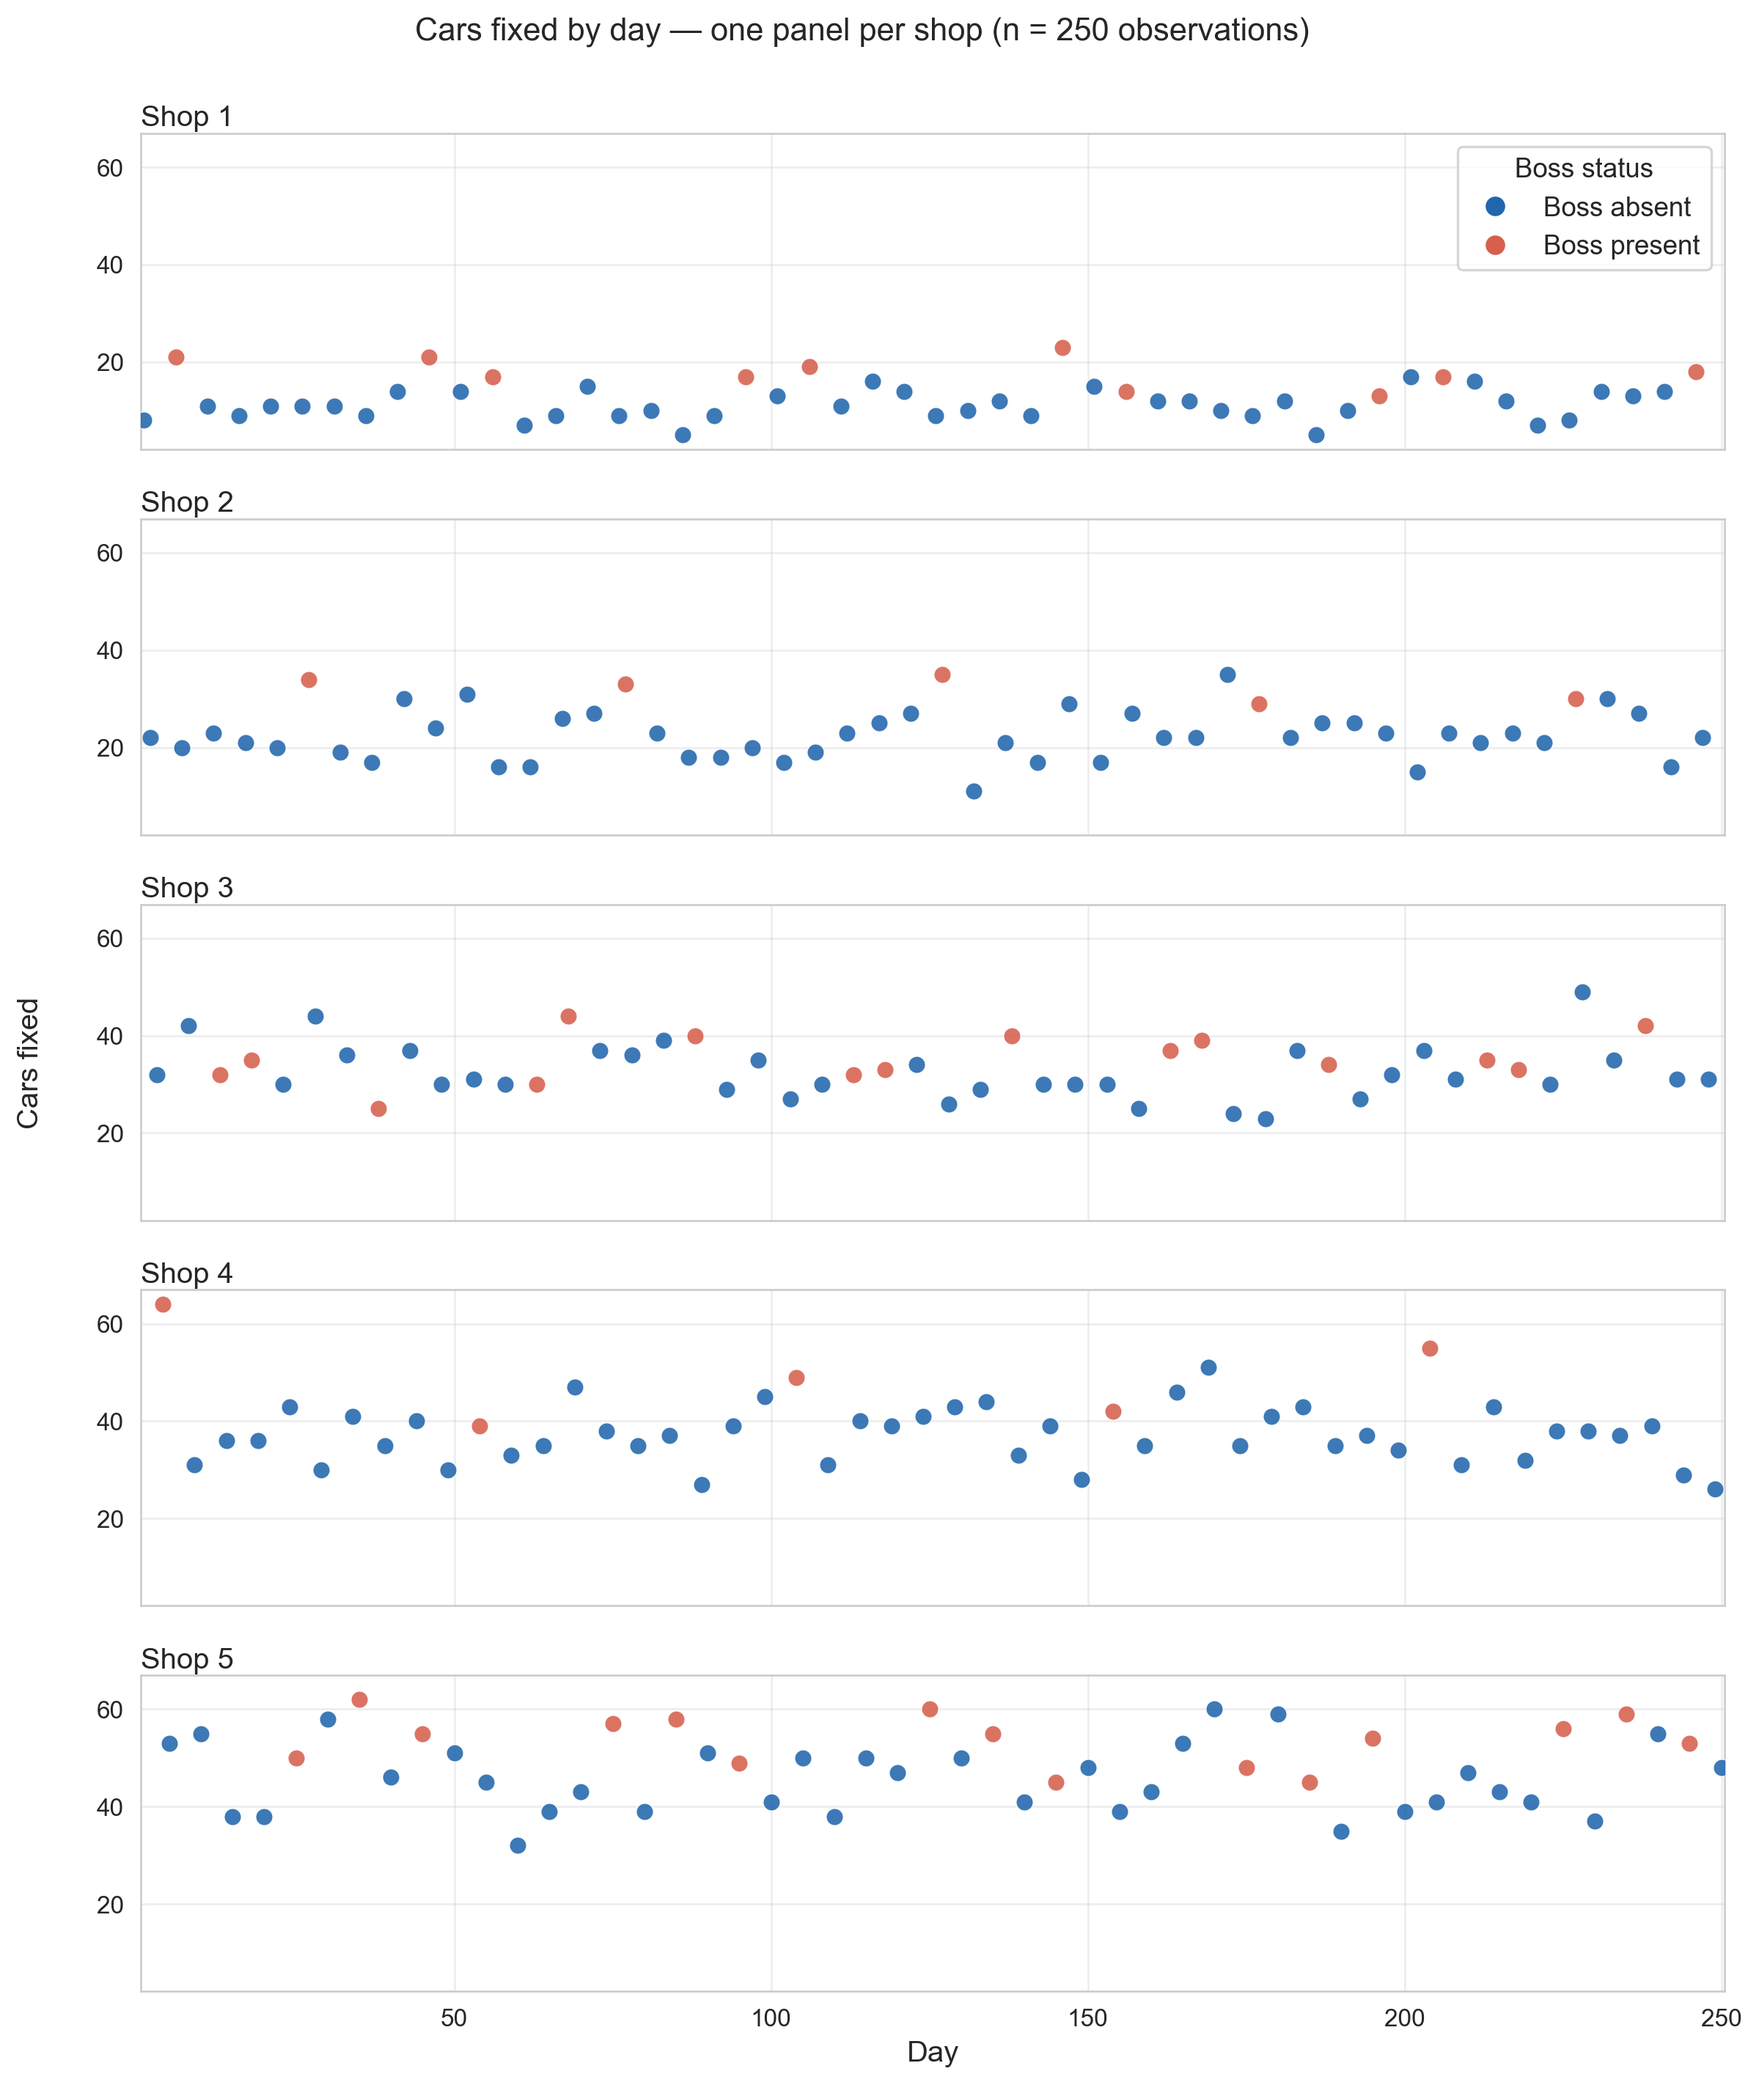
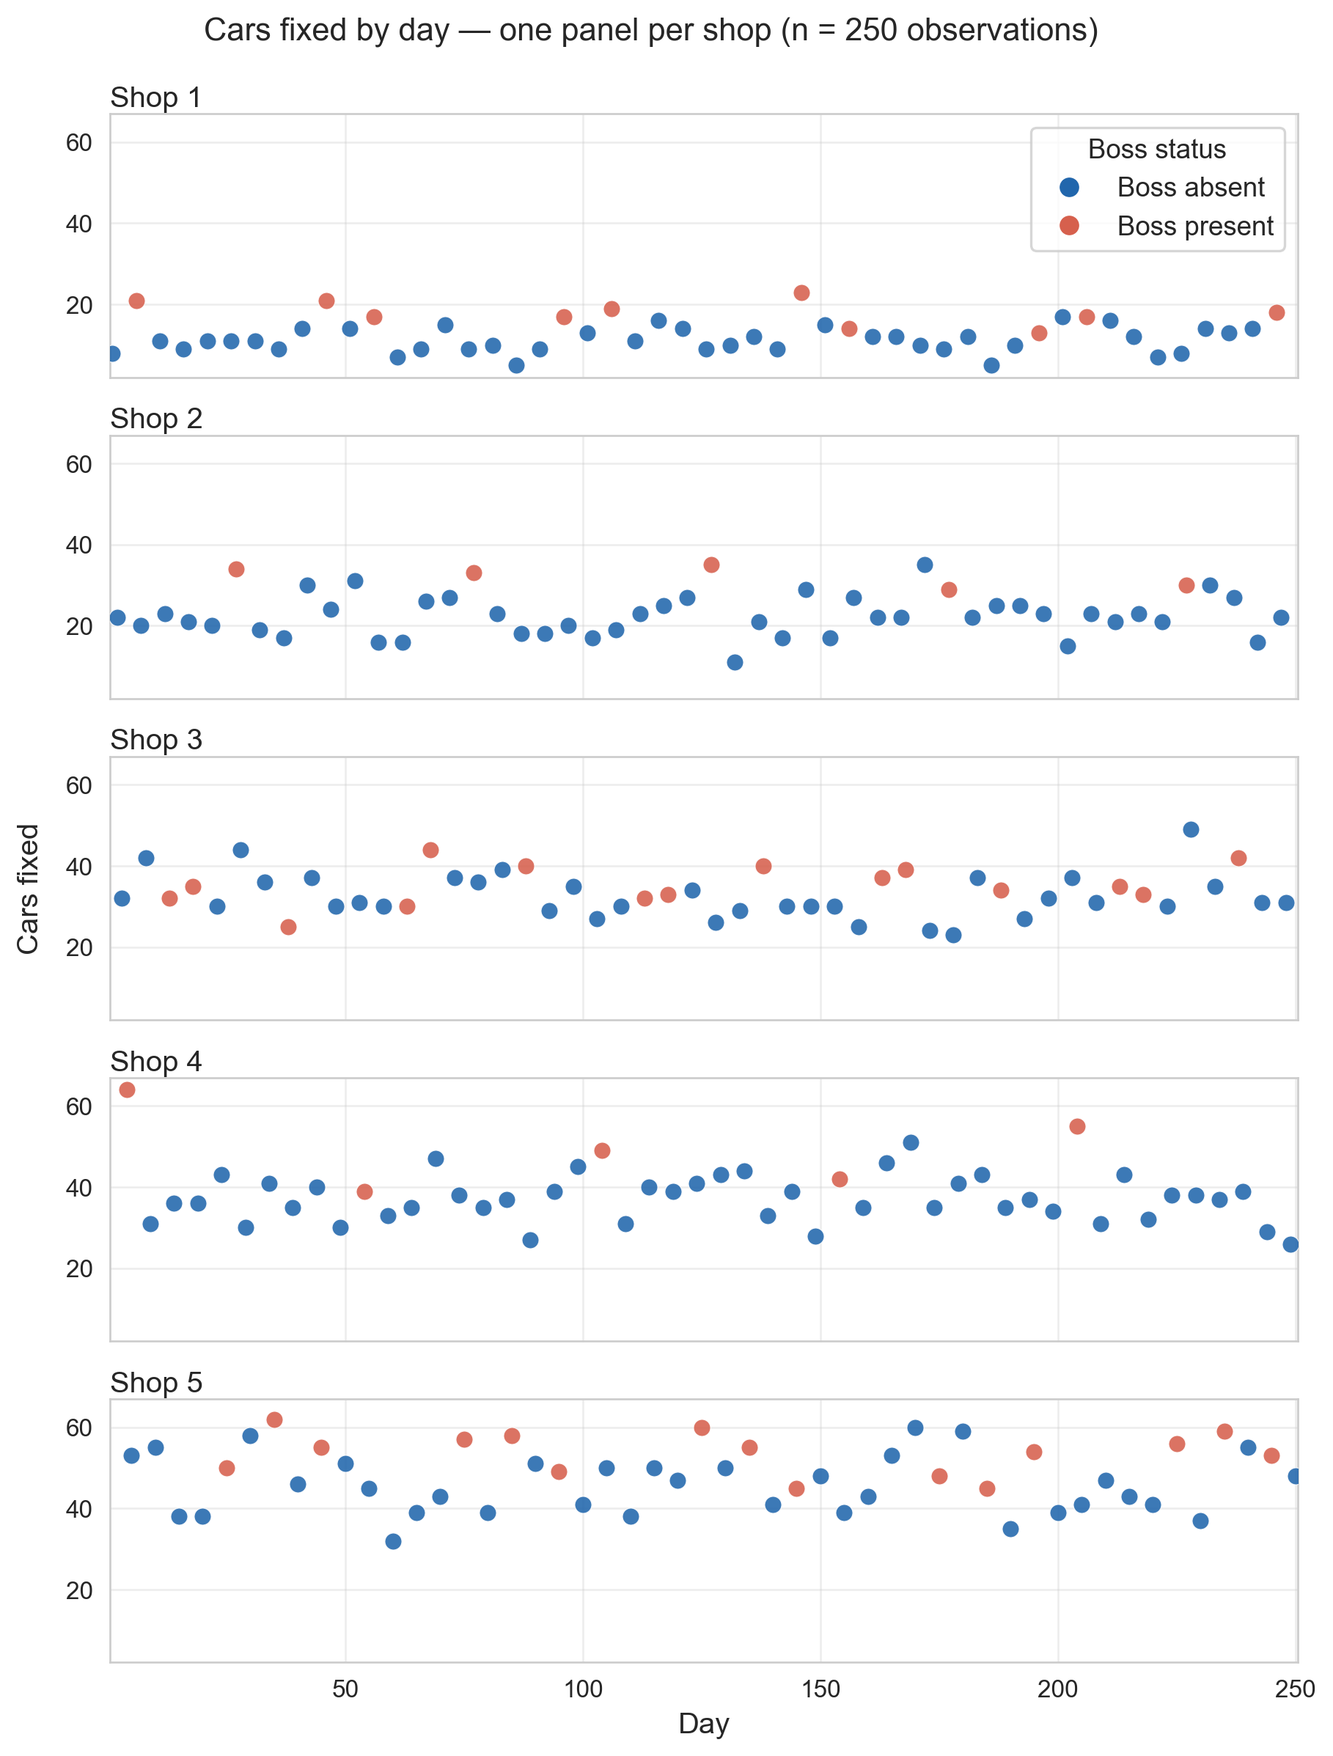
Add change to quarto file

diff --git a/index.html b/index.html
@@ -77,7 +77,7 @@ ul.task-list li input[type="checkbox"] {
 <div id="fig-productivity-by-boss" class="quarto-float quarto-figure quarto-figure-center anchored">
 <figure class="quarto-float quarto-float-fig figure">
 <div aria-describedby="fig-productivity-by-boss-caption-0ceaefa1-69ba-4598-a22c-09a6ac19f8ca">
-<img src="index_files/figure-html/fig-productivity-by-boss-output-1.png" width="1199" height="1422" class="figure-img">
+<img src="index_files/figure-html/fig-productivity-by-boss-output-1.png" width="909" height="1197" class="figure-img">
 </div>
 <figcaption class="quarto-float-caption-bottom quarto-float-caption quarto-float-fig" id="fig-productivity-by-boss-caption-0ceaefa1-69ba-4598-a22c-09a6ac19f8ca">
 Figure&nbsp;1: Cars fixed by day (observations 1–250): five panels by shop. Color indicates boss absent (blue) or present (orange); the same marker is used in every panel.
@@ -91,7 +91,7 @@ Figure&nbsp;1: Cars fixed by day (observations 1–250): five panels by shop. Co
 <div id="fig-summary-shop-boss" class="quarto-float quarto-figure quarto-figure-center anchored">
 <figure class="quarto-float quarto-float-fig figure">
 <div aria-describedby="fig-summary-shop-boss-caption-0ceaefa1-69ba-4598-a22c-09a6ac19f8ca">
-<img src="index_files/figure-html/fig-summary-shop-boss-output-1.png" width="1270" height="587" class="figure-img">
+<img src="index_files/figure-html/fig-summary-shop-boss-output-1.png" width="910" height="587" class="figure-img">
 </div>
 <figcaption class="quarto-float-caption-bottom quarto-float-caption quarto-float-fig" id="fig-summary-shop-boss-caption-0ceaefa1-69ba-4598-a22c-09a6ac19f8ca">
 Figure&nbsp;2: Candlestick chart by shop and boss: wick = min–max; body = mean ± SD (clipped). ▼ / ● / ▲ mark min, mean, and max; labels show those numeric values.
@@ -116,7 +116,7 @@ Figure&nbsp;2: Candlestick chart by shop and boss: wick = min–max; body = mean
 <div id="fig-candlestick-predictions" class="quarto-float quarto-figure quarto-figure-center anchored">
 <figure class="quarto-float quarto-float-fig figure">
 <div aria-describedby="fig-candlestick-predictions-caption-0ceaefa1-69ba-4598-a22c-09a6ac19f8ca">
-<img src="index_files/figure-html/fig-candlestick-predictions-output-1.png" width="1270" height="575" class="figure-img">
+<img src="index_files/figure-html/fig-candlestick-predictions-output-1.png" width="910" height="575" class="figure-img">
 </div>
 <figcaption class="quarto-float-caption-bottom quarto-float-caption quarto-float-fig" id="fig-candlestick-predictions-caption-0ceaefa1-69ba-4598-a22c-09a6ac19f8ca">
 Figure&nbsp;3: Candlestick view of OLS predictions: wick = 95% prediction interval for one future day; body = 95% CI for the mean; dot = point prediction. Blue = boss absent, orange = boss present.
